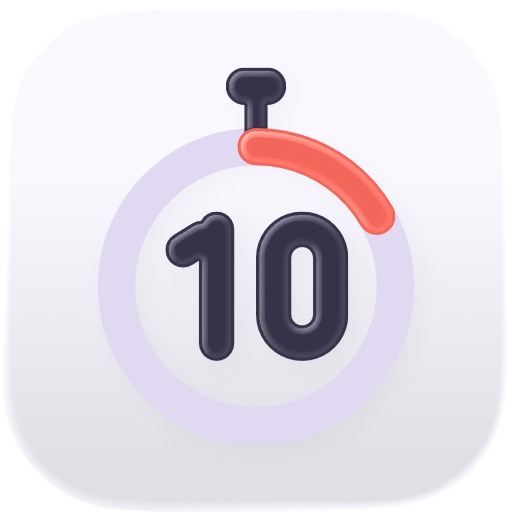
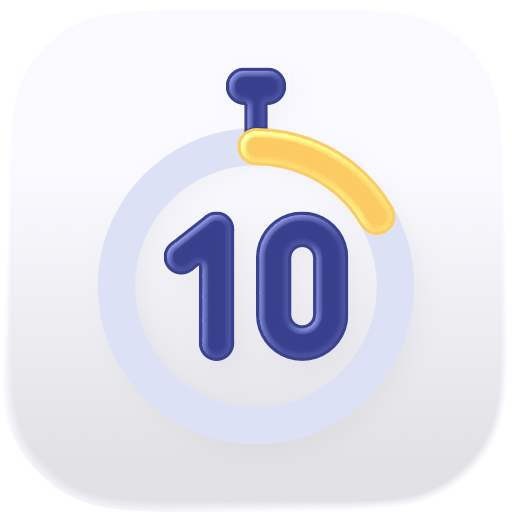
色をインディゴ（アイコンの地・テーマカラーの初期値）と琥珀（10秒の弧）に。「1」を一筆の丸い線で描き直す（tools/glyphs.py）

Changed region(s): [[0.4375, 0.125, 0.7812, 0.7188], [0.3125, 0.4062, 0.4688, 0.7188]]

diff --git a/JubyoNikki/Views/Theme.swift b/JubyoNikki/Views/Theme.swift
@@ -85,10 +85,18 @@ final class ThemeStore: ObservableObject {
     var showsDots: Bool { background == .dots }
 
     var accent: ThemeAccent {
-        Self.accents[Self.accents.indices.contains(accentIndex) ? accentIndex : 0]
+        Self.accents.first { $0.id == accentIndex } ?? Self.accents[0]
     }
 
+    /// 初期値のテーマカラー。日記は夜に一人で書くもので、深い青（インディゴ）は落ち着き・内省・秘密を守る信頼を連想させる
+    static let defaultAccent = 7
+
+    // 並びは設定の選択肢の順（id は保存する値なので変えない）
     static let accents: [ThemeAccent] = [
+        ThemeAccent(id: 7, name: "インディゴ",
+                    primary: Color(red: 0.22, green: 0.28, blue: 0.62),
+                    primaryEnd: Color(red: 0.40, green: 0.47, blue: 0.82),
+                    primaryBg: Color(red: 0.90, green: 0.92, blue: 0.98)),
         ThemeAccent(id: 0, name: "ブラック",
                     primary: Color(red: 0.22, green: 0.22, blue: 0.25),
                     primaryEnd: Color(red: 0.40, green: 0.40, blue: 0.44),
@@ -121,7 +129,7 @@ final class ThemeStore: ObservableObject {
 
     private init() {
         let ud = UserDefaults.standard
-        accentIndex = ud.integer(forKey: "accent")
+        accentIndex = ud.object(forKey: "accent") as? Int ?? Self.defaultAccent
         isDark = ud.bool(forKey: "isDark")
         background = AppBackground(rawValue: ud.integer(forKey: "background")) ?? .white
     }

diff --git a/design/candidates/make_candidates.py b/design/candidates/make_candidates.py
@@ -1,13 +1,17 @@
 #!/usr/bin/env python3
 """アイコン候補を3つ作る（Icon Composer の .icon）。どれも寸法は黄金比 φ から。
-  A  白い地：今のタイマーをライトに（淡い外枠・赤い 10 秒の弧・濃い「10」）
-  B  赤い地：赤一色の地に白い外枠と白い「10」（ストアで目立つ）
-  C  「1」＋ストップウォッチの「0」：0 がそのままタイマーになっている
+  A  白い地：今のタイマーをライトに（淡い外枠・琥珀の 10 秒の弧・インディゴの「10」）
+  C  「1」＋ストップウォッチの「0」：0 がそのままタイマーになっている（インディゴの地）
+  （B の赤い地はやめた。インディゴの地のタイマーは本体のアイコン tools/make_icon.py）
   python3 design/candidates/make_candidates.py
 """
 import json
 import math
+import sys
 from pathlib import Path
+
+sys.path.insert(0, str(Path(__file__).resolve().parents[2] / "tools"))
+import glyphs
 
 OUT = Path(__file__).resolve().parent
 PHI = (1 + 5 ** 0.5) / 2
@@ -45,14 +49,6 @@ def stadium(x, y, w, h):
     r = w / 2
     return (f"M{f(x)},{f(y + r)} A{f(r)},{f(r)} 0 0 1 {f(x + w)},{f(y + r)} "
             f"L{f(x + w)},{f(y + h - r)} A{f(r)},{f(r)} 0 0 1 {f(x)},{f(y + h - r)} Z")
-
-
-def one(x, top, h, t, flag):
-    """「1」：x は軸の左端。旗は左下へ傾き 1:φ"""
-    ang = 180 - math.degrees(math.atan2(1, PHI))
-    return (f'<path fill="#000" d="{stadium(x, top, t, h)}"/>'
-            f'<rect x="{f(x + t / 2)}" y="{f(top)}" width="{f(flag * PHI)}" height="{f(t)}" rx="{f(t / 2)}" fill="#000" '
-            f'transform="rotate({f(ang)} {f(x + t / 2)} {f(top + t / 2)})"/>')
 
 
 def zero(x, top, w, h, t):
@@ -93,9 +89,9 @@ def write_icon(name, bg, groups, layers):
     (d / "icon.json").write_text(json.dumps(doc, indent=2) + "\n")
 
 
-INK = (0.20, 0.17, 0.27)
+INDIGO = (0.19, 0.23, 0.55)
 WHITE = (1, 1, 1)
-RED = (1.0, 0.33, 0.30)
+AMBER = (1.0, 0.76, 0.27)
 
 # ---- A と B：今のタイマーと同じ構図（外枠の直径 = 幅 ÷ φ、太さ = 半径 ÷ φ³、「10」の高さ = 内径 ÷ φ）
 R_OUT = S / PHI / 2
@@ -107,26 +103,23 @@ CX = S / 2
 CY = S / 2 + ((CH + SH + 2 * R_OUT) / 2 - R_OUT)
 H = 2 * R_IN / PHI
 W0, T = H / PHI, H / PHI ** 3
-GAP, FLAG = T / PHI, (H / PHI) / PHI ** 2
+GAP, FLAG = T / PHI, glyphs.one_flag_width(H, T)
 tw = FLAG + T + GAP + W0
 x1 = CX - tw / 2 + FLAG
 timer_layers = {
-    "digits": one(x1, CY - H / 2, H, T, FLAG) + zero(x1 + T + GAP, CY - H / 2, W0, H, T),
+    "digits": glyphs.one(x1, CY - H / 2, H, T) + zero(x1 + T + GAP, CY - H / 2, W0, H, T),
     "progress": arc(CX, CY, R_IN, R_OUT, -90, -30),
     "crown": crown(CX, CY - R_OUT, W, CW, CH, SW, SH),
     "ring": ring(CX, CY, R_OUT, R_IN),
 }
-write_icon("A-white", (0.98, 0.97, 1.0),
-           [[("digits", INK)], [("progress", RED), ("crown", INK), ("ring", (0.88, 0.85, 0.95), False)]],
-           timer_layers)
-write_icon("B-red", (0.96, 0.33, 0.30),
-           [[("digits", WHITE)], [("progress", WHITE), ("crown", WHITE), ("ring", (1.0, 0.55, 0.52), False)]],
+write_icon("A-white", (0.98, 0.98, 1.0),
+           [[("digits", INDIGO)], [("progress", AMBER), ("crown", INDIGO), ("ring", (0.86, 0.88, 0.97), False)]],
            timer_layers)
 
 # ---- C：「1」＋ストップウォッチの「0」
 D = S / PHI ** 1.5                  # 0（ストップウォッチ）の直径 = 1 の高さ
 Tc = D / PHI ** 3.5                 # 線の太さ（外枠の太さも同じ）
-FLAGc = Tc * PHI
+FLAGc = glyphs.one_flag_width(D, Tc)
 GAPc = Tc / PHI
 twc = FLAGc + Tc + GAPc + D
 x1c = S / 2 - twc / 2 + FLAGc
@@ -135,12 +128,12 @@ crown_h = Tc + Tc / PHI
 cyc = S / 2 + crown_h / 2
 Rc = D / 2
 c_layers = {
-    "one": one(x1c, cyc - D / 2, D, Tc, FLAGc),
+    "one": glyphs.one(x1c, cyc - D / 2, D, Tc),
     "progress": arc(cxc, cyc, Rc - Tc, Rc, -90, -30),
     "crown": crown(cxc, cyc - Rc, Tc, D / PHI ** 2.5, Tc, D / PHI ** 4.5, Tc / PHI),
     "ring": ring(cxc, cyc, Rc, Rc - Tc),
 }
-write_icon("C-one-watch", (0.20, 0.17, 0.27),
-           [[("one", WHITE), ("progress", RED), ("crown", WHITE)], [("ring", WHITE, True)]],
+write_icon("C-one-watch", INDIGO,
+           [[("one", WHITE), ("progress", AMBER), ("crown", WHITE)], [("ring", WHITE, True)]],
            c_layers)
 print("ok")

diff --git a/tools/make_icon.py b/tools/make_icon.py
@@ -16,6 +16,10 @@
 Icon Composer は stroke を面として扱うので、輪や数字はすべて塗りの図形（evenodd）で描く。
 """
 import json
+import sys as _sys
+from pathlib import Path as _P
+_sys.path.insert(0, str(_P(__file__).resolve().parent))
+import glyphs
 import math
 import sys
 from pathlib import Path
@@ -43,7 +47,7 @@ H = 2 * R_IN / PHI                  # 「10」の高さ
 W0 = H / PHI                        # 「0」の幅
 T = H / PHI ** 3                    # 線の太さ
 GAP = T / PHI
-FLAG = W0 / PHI ** 2                # 「1」の旗の横の長さ
+FLAG = glyphs.one_flag_width(H, T)  # 「1」の旗が軸から左へ出る長さ（旗の長さ = 高さ ÷ φ²、傾き 1:φ）
 ARC = 60                            # 10 秒（60 秒盤の 1/6）
 
 
@@ -91,11 +95,7 @@ x0 = x1 + T + GAP                   # 「0」の左端
 top = CY - H / 2
 
 # 「1」：軸と、左下へ伸びる旗（軸の上端から 角度 atan(1/φ) で下がる、端の丸い棒）
-flag_len = FLAG * PHI
-flag_ang = 180 - math.degrees(math.atan2(1, PHI))  # 左下向き（傾き 1:φ）
-one = (f'<path fill="#000" d="{stadium(x1, top, T, H)}"/>'
-       f'<rect x="{f(x1 + T / 2)}" y="{f(top)}" width="{f(flag_len)}" height="{f(T)}" rx="{f(T / 2)}" fill="#000" '
-       f'transform="rotate({f(flag_ang)} {f(x1 + T / 2)} {f(top + T / 2)})"/>')
+one = glyphs.one(x1, top, H, T)  # 一筆で書いた「1」（角と端が丸い）
 zero = (f'<path fill="#000" fill-rule="evenodd" d="{stadium(x0, top, W0, H)} '
         f'{stadium(x0 + T, top + T, W0 - 2 * T, H - 2 * T)}"/>')
 
@@ -122,10 +122,11 @@ def solid(light, dark):
 
 
 # 暗い地に白い「10」、10 秒の弧だけ赤（ストップウォッチの針の色）。ライトもダークも同じ配色
-BG_TOP = (0.20, 0.17, 0.27)
+# 深いインディゴの地（夜・内省・信頼）に白い「10」、10 秒の弧は琥珀色（青の補色で、夜の灯りの色）
+BG_TOP = (0.19, 0.23, 0.55)    # #303B8C
 WHITE = (1.0, 1.0, 1.0)
-RED = (1.0, 0.33, 0.30)
-TRACK = (0.33, 0.30, 0.40)     # 外枠の残り
+AMBER = (1.0, 0.76, 0.27)      # 琥珀 #FFC145
+TRACK = (0.31, 0.36, 0.68)     # 外枠の残り
 
 
 def layer(name, light, dark, glass=True):
@@ -143,7 +144,7 @@ doc = {
         {"layers": [layer("digits", WHITE, WHITE)],
          "shadow": {"kind": "neutral", "opacity": 0.35},
          "translucency": {"enabled": False, "value": 0}},
-        {"layers": [layer("progress", RED, RED), layer("crown", WHITE, WHITE),
+        {"layers": [layer("progress", AMBER, AMBER), layer("crown", WHITE, WHITE),
                     layer("ring", TRACK, TRACK, glass=False)],
          "shadow": {"kind": "neutral", "opacity": 0.3},
          "translucency": {"enabled": False, "value": 0}},

diff --git a/tools/glyphs.py b/tools/glyphs.py
@@ -1,0 +1,43 @@
+"""アイコンの数字の形（make_icon.py と design/candidates から使う）。
+Icon Composer は stroke を面として扱うので、太い線は「四角の帯 + 丸」の塗りで描く。"""
+import math
+
+PHI = (1 + 5 ** 0.5) / 2
+FLAG_ANGLE = math.atan2(1, PHI ** 0.5)  # 「1」の旗の傾き（1 : √φ）
+
+
+def f(v):
+    return f"{v:.2f}"
+
+
+def _band(p, q, t):
+    """p から q への太さ t の帯（端は平ら）"""
+    dx, dy = q[0] - p[0], q[1] - p[1]
+    n = math.hypot(dx, dy)
+    nx, ny = -dy / n * t / 2, dx / n * t / 2
+    pts = [(p[0] + nx, p[1] + ny), (q[0] + nx, q[1] + ny), (q[0] - nx, q[1] - ny), (p[0] - nx, p[1] - ny)]
+    return '<path fill="#000" d="M' + " L".join(f"{f(x)},{f(y)}" for x, y in pts) + ' Z"/>'
+
+
+def _dot(c, r):
+    return f'<circle cx="{f(c[0])}" cy="{f(c[1])}" r="{f(r)}" fill="#000"/>'
+
+
+def one_flag_width(h, t):
+    """「1」の旗が軸から左へ出る長さ（線の中心どうし）"""
+    return h / PHI ** 2.5 * math.cos(FLAG_ANGLE)
+
+
+def one(x, top, h, t):
+    """「1」を一筆で：旗の先 → 軸の上 → 軸の下。x は軸の左端。角と両端は丸い（丸いペン先）"""
+    r = t / 2
+    p1 = (x + r, top + r)                         # 軸の上（旗との角）
+    p2 = (x + r, top + h - r)                     # 軸の下
+    flag = h / PHI ** 2.5                         # 旗の長さ
+    p0 = (p1[0] - flag * math.cos(FLAG_ANGLE), p1[1] + flag * math.sin(FLAG_ANGLE))
+    return _band(p0, p1, t) + _band(p1, p2, t) + _dot(p0, r) + _dot(p1, r) + _dot(p2, r)
+
+
+def one_width(h, t):
+    """「1」全体の横幅（旗の先の丸から軸の右端まで）"""
+    return one_flag_width(h, t) + t
